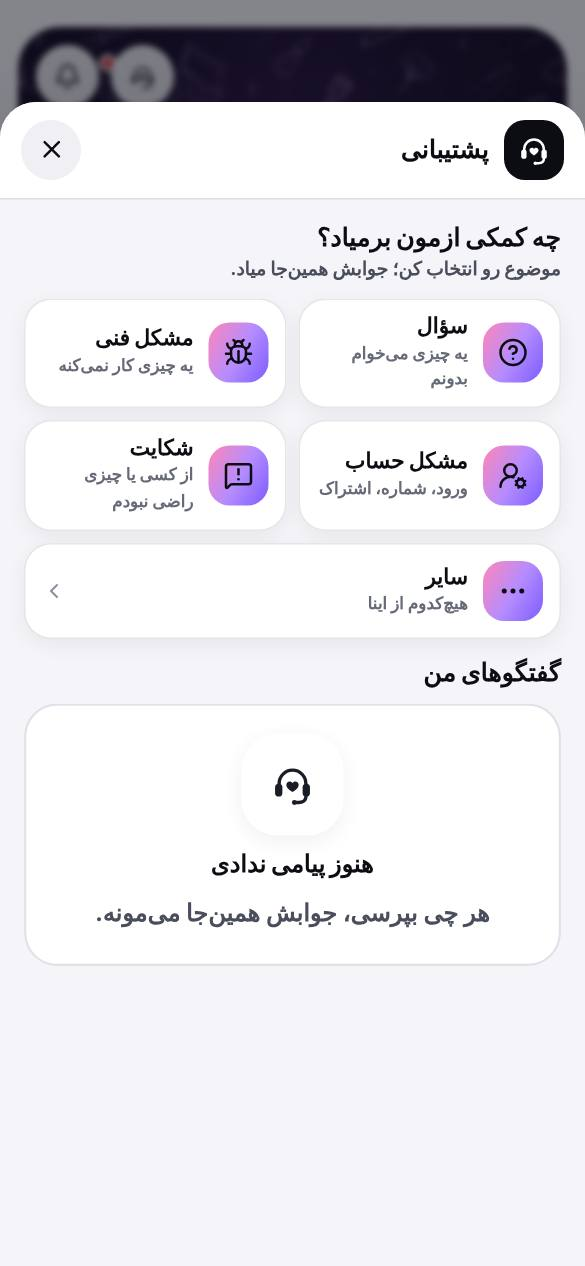
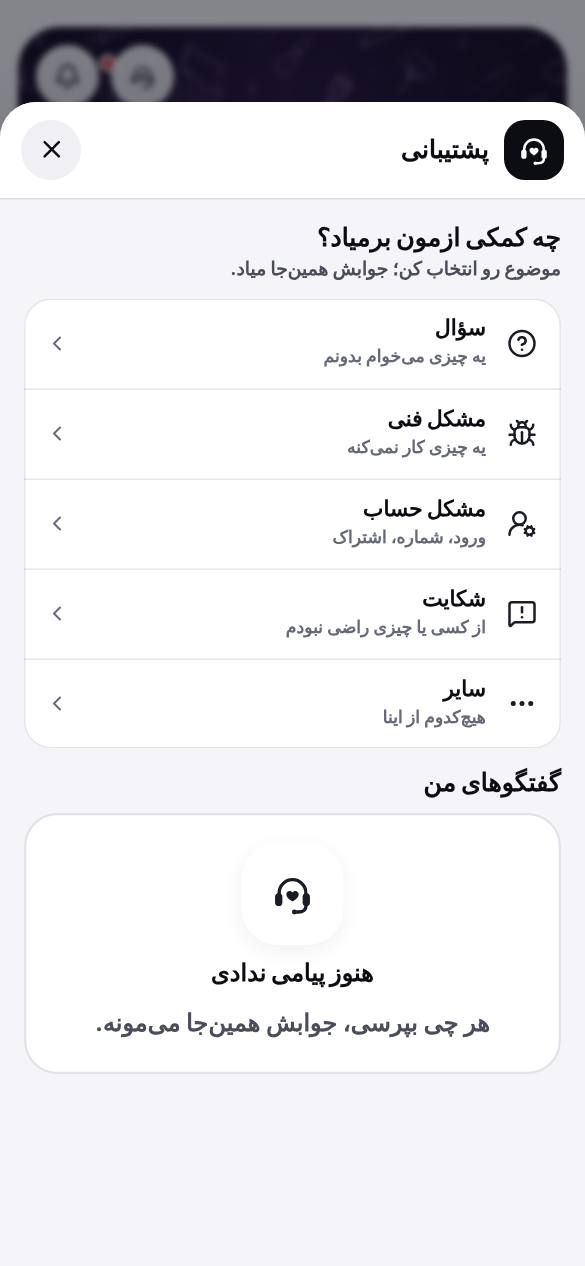
Support topics as one plain list (owner picked «پ»)
Claude-Session: https://claude.ai/code/session_01DNXtDsDJ27jL6Sg7EtT3e6

diff --git a/app/styles/features/support.css b/app/styles/features/support.css
@@ -187,17 +187,17 @@
 .scAsk { display: grid; gap: 12px; }
 .scAskHead h4, .scMineHead h4 { margin: 0; font-size: 1.05rem; font-weight: 900; }
 .scAskHead p { margin: 2px 0 0; color: var(--n-700); font-size: var(--text-sm); font-weight: 650; }
-.scTopics { display: grid; grid-template-columns: 1fr 1fr; gap: 8px; }
-.scTopic { position: relative; display: grid; grid-template-columns: auto 1fr; align-items: center; gap: 10px; min-height: 64px; padding: 10px 12px; border: 0; border-radius: 18px; background: var(--n-0); color: var(--ink); font: inherit; text-align: start; box-shadow: var(--shadow-xs), inset 0 0 0 1px var(--line); cursor: pointer; transition: transform var(--duration-fast) var(--ease-standard), box-shadow var(--duration-fast); }
-.scTopic:active { transform: scale(0.97); }
-.scTopic:focus-visible { outline: 2px solid var(--focus-ring); outline-offset: 2px; }
-.scTopic.is-wide { grid-column: 1 / -1; }
-.scTopicIcon { display: grid; place-items: center; width: 40px; height: 40px; border-radius: 14px; background: var(--brand-blend); color: var(--brand-ink); }
+/* Topics as one plain list, like settings (owner's pick «پ», 2026-10-25): a small line icon, the topic, an arrow. */
+.scTopics { display: grid; border-radius: 18px; background: var(--n-0); box-shadow: inset 0 0 0 1px var(--line); overflow: hidden; }
+.scTopic { display: grid; grid-template-columns: auto 1fr auto; align-items: center; gap: 12px; min-height: 60px; padding: 10px 14px; border: 0; border-top: 1px solid var(--line); background: transparent; color: var(--ink); font: inherit; text-align: start; cursor: pointer; }
+.scTopic:first-child { border-top: 0; }
+.scTopic:active { background: var(--n-50); }
+.scTopic:focus-visible { outline: 2px solid var(--focus-ring); outline-offset: -2px; }
+.scTopicIcon { display: grid; place-items: center; width: 24px; height: 24px; color: var(--n-900); }
 .scTopicText { display: grid; gap: 1px; min-width: 0; }
 .scTopicText b { font-size: 0.9rem; font-weight: 900; }
-.scTopicText small { color: var(--n-600); font-size: 0.7rem; font-weight: 650; line-height: 1.6; }
-.scTopicGo { display: none; position: absolute; inset-inline-end: 12px; color: var(--n-500, var(--n-600)); }
-.scTopic.is-wide .scTopicGo { display: block; }
+.scTopicText small { color: var(--n-600); font-size: 0.72rem; font-weight: 650; line-height: 1.6; }
+.scTopicGo { color: var(--n-600); }
 
 .scMine { display: grid; gap: 10px; }
 .scMineHead { display: flex; align-items: center; gap: 8px; }

diff --git a/app/features/support/SupportCenter.jsx b/app/features/support/SupportCenter.jsx
@@ -81,7 +81,7 @@ function TicketList({ onOpen, onNew }) {
         </div>
         <div className="scTopics">
           {TOPICS.map(([value, label, Icon, hint]) => (
-            <button key={value} type="button" className={`scTopic${value === "other" ? " is-wide" : ""}`} onClick={() => onNew(value)}>
+            <button key={value} type="button" className="scTopic" onClick={() => onNew(value)}>
               <span className="scTopicIcon"><Icon size={20} aria-hidden="true" /></span>
               <span className="scTopicText"><b>{label}</b><small>{hint}</small></span>
               <ChevronLeft className="scTopicGo" size={16} aria-hidden="true" />

diff --git a/docs/DECISIONS.md b/docs/DECISIONS.md
@@ -49,3 +49,4 @@ One line each, dated. Claude reads this before asking questions.
 - 2026-10-25: Not wanted (owner): booking and income numbers on the staff tab («نه خوب نیست»), an income/accounting page, and the online/offline item. Do not propose these again.
 - 2026-10-25: Removed from a team (wanted): the artist gets a push, an in-app card that stays until seen and an SMS; the salon may add an optional one-line reason that goes to the artist; the other way too (an artist who leaves, the salon is told).
 - 2026-10-25: Break (wanted): «الان استراحت میکنم» (15/30/60 minutes, today only), the daily lunch window, and each weekday switched on or off (same hours for every day); salons get a break too.
+- 2026-10-25: Support topics (owner picked «پ»): one plain list like settings, a small line icon, the topic and its line, an arrow; no coloured tiles.
